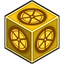
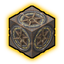
Hidden Cube picture rendered from the game's own 3D model (HiddenCube_01 with its stone texture and glowing glyphs) with a soft gold glow, instead of the hand-drawn one; bigger marks on the map; the tool that renders it

diff --git a/Tools/aion2-icons/render_cube_model.py b/Tools/aion2-icons/render_cube_model.py
@@ -1,0 +1,139 @@
+"""Renders the game's own 3D model of the Hidden Cube (HiddenCube_01) to a picture: python3 render_cube_model.py <glb> <diffuse .uasset> <fx .uasset> <out.png> [size]
+
+The glb comes from `Extract <Paks> mesh <out> EnvOBJ/Common/HiddenCube_01/HiddenCube_01.uasset` (the model, without its textures); the two textures are the
+game's HiddenCube_01_D (the stone with its bone-coloured bands) and HiddenCube_01_FX (the glowing glyphs, read as an emissive layer). The cube is seen from a
+corner (isometric), lit from above left, drawn with a z-buffer; the glyph layer is added as a glowing gold, and a thin dark outline is put around it."""
+import json
+import math
+import struct
+import sys
+
+from PIL import Image, ImageFilter
+
+sys.path.insert(0, __file__.rsplit("/", 1)[0])
+import build_gather_icons as bg  # noqa: E402  (dds / convert helpers)
+
+
+def load_texture(path):
+    d = open(path, "rb").read()
+    i = d.rfind(b"PF_")
+    j = d.find(b"\0", i)
+    fmt = d[i:j].decode()
+    w, h, _ = struct.unpack("<iii", d[i - 16:i - 4])
+    ub = path[:-7] + ".ubulk"
+    bpp = 0.5 if fmt == "PF_DXT1" else 1.0
+    data = open(ub, "rb").read()
+    dim = w
+    while dim > 4 and int(dim * dim * bpp) > len(data):
+        dim //= 2
+    data = data[:int(dim * dim * bpp)]
+    import io
+    return Image.open(io.BytesIO(bg.dds(dim, dim, b"DXT1" if fmt == "PF_DXT1" else b"DXT5", data))).convert("RGB")
+
+
+def read_glb(path):
+    b = open(path, "rb").read()
+    off, chunks = 12, []
+    while off < len(b):
+        cl, ct = struct.unpack_from("<I4s", b, off)
+        chunks.append(b[off + 8:off + 8 + cl])
+        off += 8 + cl
+    j, bin_ = json.loads(chunks[0]), chunks[1]
+    prim = j["meshes"][0]["primitives"][0]
+
+    def accessor(index):
+        a = j["accessors"][index]
+        view = j["bufferViews"][a["bufferView"]]
+        n = {"SCALAR": 1, "VEC2": 2, "VEC3": 3, "VEC4": 4}[a["type"]]
+        fmt = {5126: "f", 5123: "H", 5125: "I", 5121: "B"}[a["componentType"]]
+        size = struct.calcsize(fmt)
+        stride = view.get("byteStride", n * size)
+        base = view.get("byteOffset", 0) + a.get("byteOffset", 0)
+        return [struct.unpack_from("<" + fmt * n, bin_, base + k * stride) for k in range(a["count"])]
+
+    pos = accessor(prim["attributes"]["POSITION"])
+    nor = accessor(prim["attributes"]["NORMAL"])
+    uv = accessor(prim["attributes"]["TEXCOORD_0"])
+    idx = [i[0] for i in accessor(prim["indices"])]
+    return pos, nor, uv, idx
+
+
+def main():
+    glb, diffuse, fx, out = sys.argv[1:5]
+    size = int(sys.argv[5]) if len(sys.argv) > 5 else 64
+    pos, nor, uv, idx = read_glb(glb)
+    tex, glow = load_texture(diffuse), load_texture(fx)
+    tp, gp = tex.load(), glow.load()
+    tw, gw = tex.width, glow.width
+    S = 4 * size if size < 256 else size   # supersample
+    inner = 0.80  # the cube fills this share of the picture, the rest is for the glow
+    # isometric camera: yaw 45 degrees, pitch about 35 degrees; the model is Y up, centred at (0, 1.1, 0)
+    yaw, pitch = math.radians(45), math.radians(35.26)
+    cy, sy, cp, sp = math.cos(yaw), math.sin(yaw), math.cos(pitch), math.sin(pitch)
+
+    def proj(p):
+        x, y, z = p[0], p[1] - 1.1, p[2]
+        x1, z1 = x * cy - z * sy, x * sy + z * cy
+        y2, z2 = y * cp - z1 * sp, y * sp + z1 * cp
+        return x1, y2, z2
+
+    pts = [proj(p) for p in pos]
+    nrm = [(n[0] * cy - n[2] * sy, n[1], n[0] * sy + n[2] * cy) for n in nor]
+    nrm = [(n[0], n[1] * cp - n[2] * sp, n[1] * sp + n[2] * cp) for n in nrm]
+    xs = [p[0] for p in pts]
+    ys = [p[1] for p in pts]
+    scale = inner * S / max(max(xs) - min(xs), max(ys) - min(ys))
+    ox, oy = S / 2 - (max(xs) + min(xs)) / 2 * scale, S / 2 + (max(ys) + min(ys)) / 2 * scale
+    img = Image.new("RGBA", (S, S), (0, 0, 0, 0))
+    ip = img.load()
+    zbuf = [[-1e9] * S for _ in range(S)]
+    light = (-0.45, 0.8, 0.55)
+    ln = math.sqrt(sum(c * c for c in light))
+    light = tuple(c / ln for c in light)
+    for t in range(0, len(idx), 3):
+        a, b, c = idx[t], idx[t + 1], idx[t + 2]
+        P = [(pts[k][0] * scale + ox, -pts[k][1] * scale + oy, pts[k][2]) for k in (a, b, c)]
+        minx, maxx = max(0, int(min(p[0] for p in P))), min(S - 1, int(max(p[0] for p in P)) + 1)
+        miny, maxy = max(0, int(min(p[1] for p in P))), min(S - 1, int(max(p[1] for p in P)) + 1)
+        d = (P[1][1] - P[2][1]) * (P[0][0] - P[2][0]) + (P[2][0] - P[1][0]) * (P[0][1] - P[2][1])
+        if abs(d) < 1e-9:
+            continue
+        for y in range(miny, maxy + 1):
+            for x in range(minx, maxx + 1):
+                w0 = ((P[1][1] - P[2][1]) * (x + 0.5 - P[2][0]) + (P[2][0] - P[1][0]) * (y + 0.5 - P[2][1])) / d
+                w1 = ((P[2][1] - P[0][1]) * (x + 0.5 - P[2][0]) + (P[0][0] - P[2][0]) * (y + 0.5 - P[2][1])) / d
+                w2 = 1 - w0 - w1
+                if w0 < -1e-6 or w1 < -1e-6 or w2 < -1e-6:
+                    continue
+                z = w0 * P[0][2] + w1 * P[1][2] + w2 * P[2][2]
+                if z <= zbuf[y][x]:
+                    continue
+                u = w0 * uv[a][0] + w1 * uv[b][0] + w2 * uv[c][0]
+                v = w0 * uv[a][1] + w1 * uv[b][1] + w2 * uv[c][1]
+                r, g, bl = tp[min(tw - 1, max(0, int(u * tw))), min(tw - 1, max(0, int(v * tw)))]
+                n = [w0 * nrm[a][i] + w1 * nrm[b][i] + w2 * nrm[c][i] for i in range(3)]
+                nl = math.sqrt(sum(q * q for q in n)) or 1
+                lam = max(0.0, (n[0] * light[0] + n[1] * light[1] + n[2] * light[2]) / nl)
+                shade = 0.55 + 0.6 * lam
+                er, eg, eb = gp[min(gw - 1, max(0, int(u * gw))), min(gw - 1, max(0, int(v * gw)))]
+                e = max(er, eg) / 255.0   # the glyphs are drawn in the red channel
+                R = min(255, int(r * shade + e * 255))
+                G = min(255, int(g * shade + e * 190))
+                B = min(255, int(bl * shade + e * 40))
+                zbuf[y][x] = z
+                ip[x, y] = (R, G, B, 255)
+    # dark outline of one pixel (at the final size) for contrast on the map, then the final size
+    alpha = img.getchannel("A")
+    ring = alpha.filter(ImageFilter.MaxFilter(2 * max(1, S // size) + 1))
+    outline = Image.new("RGBA", (S, S), (14, 10, 4, 255))
+    outline.putalpha(ring)
+    # a soft gold glow hugging the cube (not a frame): the stone alone is brown and grey like the map and gets lost on it
+    halo = Image.new("RGBA", (S, S), (255, 205, 40, 255))
+    halo.putalpha(alpha.filter(ImageFilter.MaxFilter(2 * max(1, S // size) * 2 + 1)).filter(ImageFilter.GaussianBlur(max(2, S // size * 2))).point(lambda v: min(255, int(v * 1.5))))
+    final = Image.alpha_composite(Image.alpha_composite(halo, outline), img).resize((size, size), Image.LANCZOS)
+    final.save(out, optimize=True)
+    print("wrote", out, final.size)
+
+
+if __name__ == "__main__":
+    main()

diff --git a/Client/Ui/PetMapWindows.cs b/Client/Ui/PetMapWindows.cs
@@ -486,12 +486,12 @@ public sealed class PetMapWindow : MovableOverlay
     private static Grid NewCubeMark()
     {
         // the gold cube itself, bigger than the places, with a glow that pulses (no frame around it)
-        var cube = new Image { Width = 36, Height = 36, Source = AionDPS.Aion2.Protocol.Aion2Gather.Icon("Hidden Cube"), IsHitTestVisible = false };
+        var cube = new Image { Width = 44, Height = 44, Source = AionDPS.Aion2.Protocol.Aion2Gather.Icon("Hidden Cube"), IsHitTestVisible = false };
         RenderOptions.SetBitmapScalingMode(cube, BitmapScalingMode.HighQuality);
         var glow = new System.Windows.Media.Effects.DropShadowEffect { BlurRadius = 16, ShadowDepth = 0, Color = Color.FromRgb(0xFF, 0xD0, 0x20), Opacity = 1 };
         glow.BeginAnimation(System.Windows.Media.Effects.DropShadowEffect.BlurRadiusProperty, new System.Windows.Media.Animation.DoubleAnimation(6, 22, TimeSpan.FromMilliseconds(700)) { AutoReverse = true, RepeatBehavior = System.Windows.Media.Animation.RepeatBehavior.Forever });
         cube.Effect = glow;
-        var grid = new Grid { Width = 44, Height = 44, IsHitTestVisible = false, Visibility = Visibility.Collapsed };
+        var grid = new Grid { Width = 52, Height = 52, IsHitTestVisible = false, Visibility = Visibility.Collapsed };
         Panel.SetZIndex(grid, 5);
         grid.Children.Add(cube);
         return grid;
@@ -780,7 +780,7 @@ public sealed class PetMapWindow : MovableOverlay
                 var shown = _gatherIcons[iconMark++];
                 shown.Source = icon;
                 // the cubes are many and close together: a smaller picture than the other collectibles
-                double side = kind == "Cube" ? 24 : 24;
+                double side = kind == "Cube" ? 30 : 24;
                 shown.Width = shown.Height = side;
                 Canvas.SetLeft(shown, px - side / 2);
                 Canvas.SetTop(shown, py - side / 2);
@@ -833,8 +833,8 @@ public sealed class PetMapWindow : MovableOverlay
                 }
 
                 var cubeVisual = _cubeMarks[cubeMark++];
-                Canvas.SetLeft(cubeVisual, px - 22);
-                Canvas.SetTop(cubeVisual, py - 22);
+                Canvas.SetLeft(cubeVisual, px - 26);
+                Canvas.SetTop(cubeVisual, py - 26);
                 cubeVisual.Visibility = Visibility.Visible;
                 continue;
             }
@@ -893,7 +893,7 @@ public sealed class PetMapWindow : MovableOverlay
             }
 
             shownLabel.Inlines.Add(new System.Windows.Documents.Run(" " + metres));
-            Canvas.SetLeft(shownLabel, px + 25);
+            Canvas.SetLeft(shownLabel, px + 28);
             Canvas.SetTop(shownLabel, py - 9);
             shownLabel.Visibility = Visibility.Visible;
         }

diff --git a/Tools/aion2-icons/build_cube_icon.py b/Tools/aion2-icons/build_cube_icon.py
@@ -1,4 +1,4 @@
-"""Draws the picture of the Hidden Cube for the gathering settings and the map: python3 build_cube_icon.py <Client/assets/aion2/maps/gather_icons>
+"""SUPERSEDED by render_cube_model.py (the game's own 3D model); kept only as the hand-drawn fallback. Draws the picture of the Hidden Cube for the gathering settings and the map: python3 build_cube_icon.py <Client/assets/aion2/maps/gather_icons>
 
 The client has no icon of the cube (its item is a key), so this is drawn: a pale stone cube with bone-coloured edges (the game's HiddenCube_01_D texture is grey stone with bone-white bands) seen from a corner, a glowing orange ring
 with six spokes on each of its three faces, and an orange glow around it - as the cube looks in the game. Output: HiddenCube.png (64 px, transparent)."""
